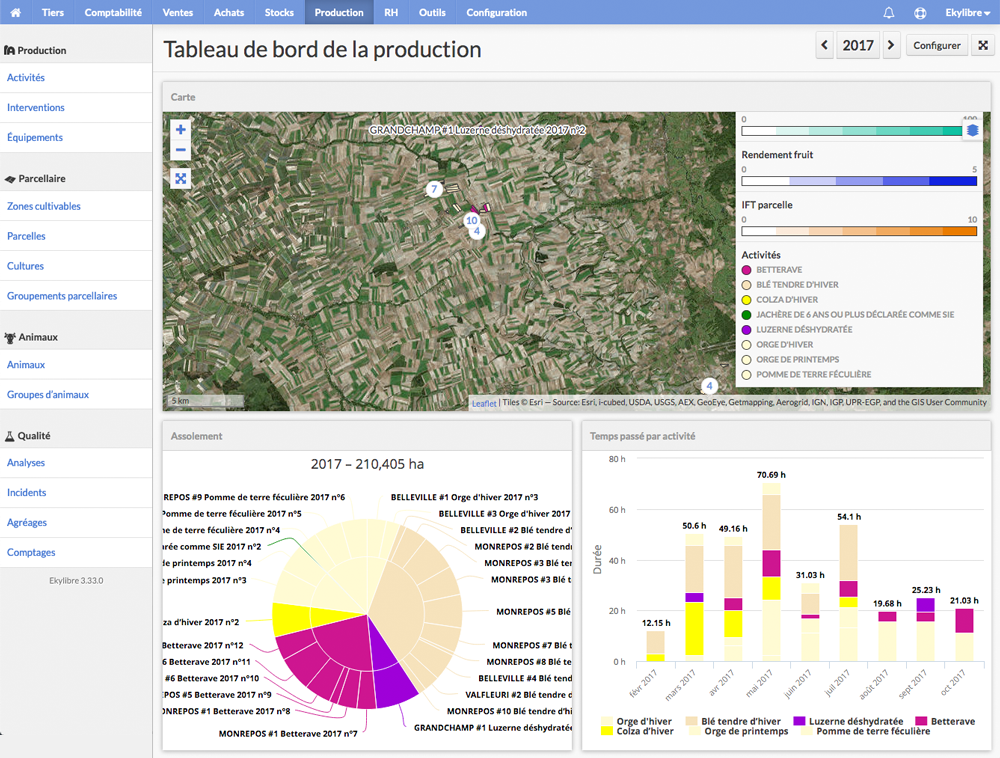
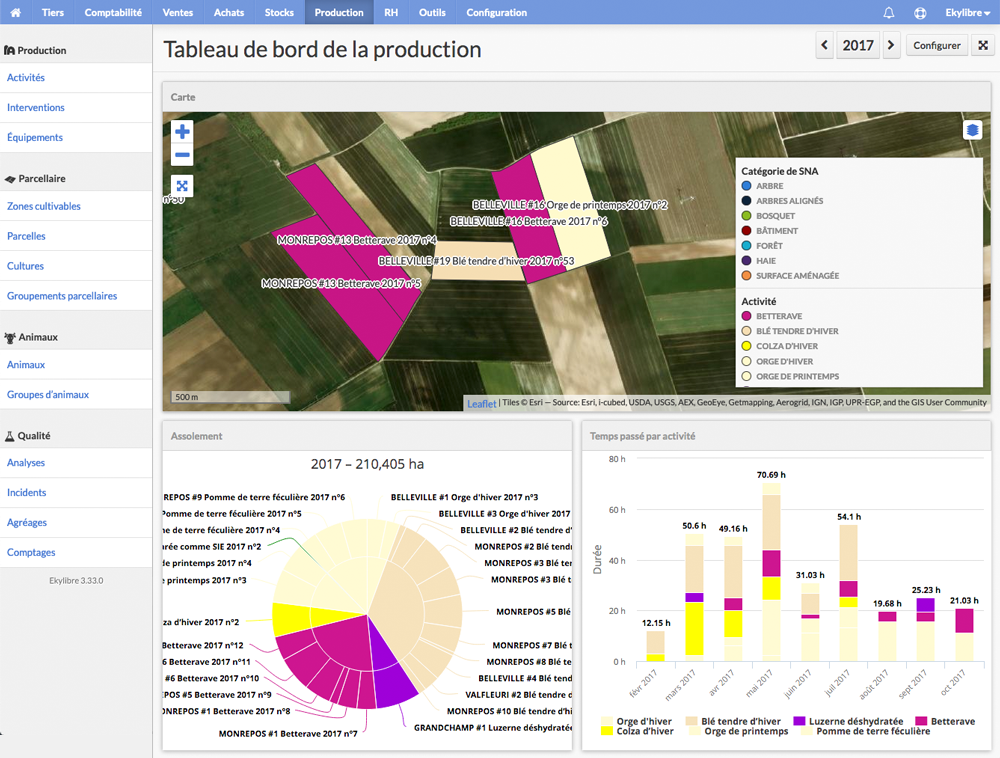
Màj import Agro-EDI

Changed region(s): [[0.155, 0.1214, 0.992, 0.5462]]

diff --git a/content/fr/chapitre10.html b/content/fr/chapitre10.html
@@ -1669,7 +1669,7 @@
          <p class="max-img-process">
             <img src="../images/chapitre10/agro-edi8.png" class="contour-img" alt="Tableau de bord de la production" data-action="zoom" />
          </p>
-         <p>Selon le paramétrage de votre "Tableau de bord", vous pouvez d'ores et déjà visualiser le temps passé par activité.</p>
+         <p>Selon le paramétrage de votre "Tableau de bord", vous pouvez d'ores et déjà visualiser les surfaces assolées et le temps passé par activité.</p>
       </div>
       <br />
       <div class="floating-box process">
@@ -1677,8 +1677,8 @@
       </div>
       <div class="process-txt">
          <span class="titre-advice">Affichez les interventions</span>
-         <p>Dans la barre latérale du module, cliquez sur "Interventions" dans la section "Production" symbolisée par l'icône avec des engrenages<img src="../images/chapitre10/cogs.svg" alt="Main" height="20" class="align-icone icone-marge-gauche">. Activez le mode d'affichage "Liste" pour consulter toutes les interventions importées dans l'application.</p>
-         <p>Assurez-vous d'être sur la bonne campagne de production en la sélectionnant avec les flèches<img src="../images/chapitre10/fleche-g.svg" alt="Flèche" class="btn-gris icone-marge-gauche icone-marge-droite">et<img src="../images/chapitre10/fleche-d.svg" alt="Flèche" class="btn-gris icone-marge-gauche icone-marge-droite"> en haut à droite de la fenêtre principale.</p>
+         <p>Dans la barre latérale du module, cliquez sur "Interventions" dans la section "Production" symbolisée par l'icône d'une ferme<img src="../images/chapitre9/farm.svg" alt="Ferme" height="20" class="align-icone icone-marge-gauche icone-marge-droite">. Activez le mode d'affichage "Liste" pour consulter toutes les interventions importées dans l'application.</p>
+         <p>Le cas échéant, assurez-vous d'être sur la bonne campagne de production en la sélectionnant avec les flèches<img src="../images/chapitre10/fleche-g.svg" alt="Flèche" class="btn-gris icone-marge-gauche icone-marge-droite">et<img src="../images/chapitre10/fleche-d.svg" alt="Flèche" class="btn-gris icone-marge-gauche icone-marge-droite"> en haut à droite de la fenêtre principale.</p>
          <p class="max-img-process">
             <img src="../images/chapitre10/agro-edi9.png" class="contour-img" alt="Liste des interventions" data-action="zoom" />
          </p>
